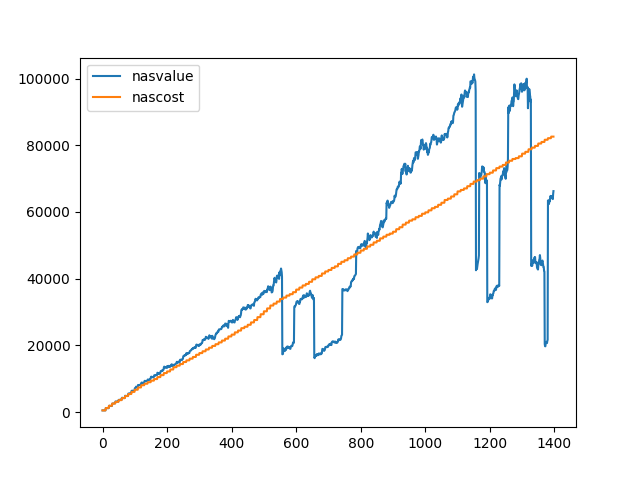
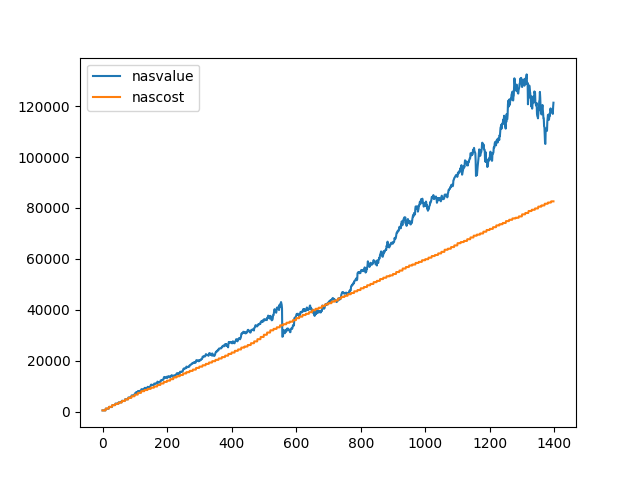
又做了一些修改，但是止盈与否好像收益差不多，是否实际上就是如此而不是程序有问题？

diff --git a/simulate.py b/simulate.py
@@ -17,9 +17,11 @@ import os
     data:股票历史数据，为一个数组。
     stopPoint: 止盈点
     startPoint: 止盈以后何时停止止盈
+    stopRate: 止盈比例
+    startRate: 停止止盈的比例
 """
 class simulate(object):
-    def __init__(self, money, totalTimes, freq, feerate, data, stopPoint, startPoint):
+    def __init__(self, money, totalTimes, freq, feerate, data, stopPoint, startPoint, stopRate, startRate):
         self.money = money
         self.tradeTimes = 0  # 已经交易次数
         self.totalTimes = totalTimes
@@ -28,6 +30,8 @@ class simulate(object):
         self.data = data
         self.stopPoint = stopPoint
         self.startPoint = startPoint
+        self.stopRate = stopRate
+        self.startRate = startRate
         # 股票交易数据
         # 每次交易剩下的钱
         self.money_rem = [0.0, 0.0]
@@ -66,40 +70,35 @@ class simulate(object):
         #清屏
         os.system("clear")
         
+    # 进行输出
+    def display(self, days):
+        print("交易日:%d 成本1:%.2f 持仓量1:%.2f 市值1:%.2f 收益率1:%.2f  成本2:%.2f 持仓量2:%.2f 市值2:%.2f 收益率2:%.2f " % (days, self.cost[0][days], self.stock[0][days], self.value[0][days], self.rate[0][days], self.cost[1][days], self.stock[1][days], self.value[1][days], self.rate[1][days]))
+        
         
     # 判断是否进行止盈操作，根据days前的交易情况，code为0或1
     def isStopProfit(self, code, days):
         # return False # 测试用
-        price = self.data[code]["close"][days]
-        # 没有正在进行止盈
-        if self.bStop[code] == False:
+        # 没有正在进行止盈和停止止盈
+        if self.bStop[code] == False and self.bStart[code] == False:
+            price = self.data[code]["close"][days]
             if self.minPrice[code] > price:
                 self.minPrice[code] = price
             if self.maxPrice[code] < price:
                 self.maxPrice[code] = price
             # 判断止盈条件
             if price/self.maxPrice[code] <= 1.0 - self.stopPoint:
-                self.bStop[code] = True
                 # 将最高/低价调整到现价
                 self.maxPrice[code] = price
                 self.minPrice[code] = price
-                return True
-        # 如果已经进行了止盈
-        if self.bStop[code] == True:
-            if self.minPrice[code] > price:
-                self.minPrice[code] = price
-            # 判断止盈条件
-            if price/self.maxPrice[code] <= 1.0 - self.stopPoint:
-                # 将最高/低价调整到现价
-                self.maxPrice[code] = price
-                self.minPrice[code] = price
+                if self.bStop[code] == False:
+                    self.bStop[code] = True
                 return True
         return False
                 
         
     # 进行止盈操作
     def doStopProfit(self, code, days):
-        money = self.value[code][days-1]/2.0
+        money = self.value[code][days-1] * self.stopRate
         num = self.getTradeNumber(money, self.data[code]["close"][days])
         value = num * self.data[code]["close"][days]
         fee = self.getFee(num, self.data[code]["close"][days])
@@ -132,6 +131,7 @@ class simulate(object):
         if self.bStop[code] == True or self.bStart[code] == True:
             price = self.data[code]["close"][days]
             if price/self.minPrice[code] >= 1.0 + self.startPoint:
+                print("停止止盈", code, days, price, price/self.minPrice[code])
                 self.bStart[code] = True
                 # 将最高/低价调整到现价
                 self.maxPrice[code] = price
@@ -145,7 +145,7 @@ class simulate(object):
     # 用止盈的钱重新购买etf
     def doReturnBuy(self, code, days):
         # 用止盈得到的剩余的钱的一半以现价再投资。
-        money = self.money_cut[code]/2.0
+        money = self.money_cut[code] * self.startRate
         num = self.getTradeNumber(money, self.data[code]["close"][days])
         value = num * self.data[code]["close"][days]
         fee = self.getFee(num, self.data[code]["close"][days])
@@ -201,7 +201,6 @@ class simulate(object):
             self.value[1][days] = self.stock[1][days] * self.data[1]["close"][days]
             self.fee[1][days] = fee1 + self.fee[1][days - 1]
             self.rate[1][days] = (self.value[1][days] + self.money_cut[1])/ self.cost[1][days] -1.0
-        # print(days, self.cost[0][days], self.stock[0][days], self.value[0][days], self.rate[0][days], self.rate[1][days])
             
         
     # 计算给定数量资金和股价可以买多少股票
@@ -260,6 +259,7 @@ class simulate(object):
             else:
                 for code in range(2):
                     self.update(code, days)
+            self.display(days)
             # print("位置a", days, self.value[0][days], self.cost[0][days], self.rate[0][days], self.value[1][days], self.cost[1][days], self.rate[1][days], self.totalrate[days])
             if days == 0:
                 self.minPrice[0] = self.data[0]["close"][0]
@@ -274,6 +274,7 @@ class simulate(object):
                         # print(code, days, self.cost[code][days-1], self.value[code][days-1], self.cost[code][days], self.value[code][days])
 
             for code in range(2):
+                # print(days, code, self.data[code]["close"][days], self.minPrice[code], self.maxPrice[code])
                 if self.isReturnBuy(code, days):
                     self.doReturnBuy(code, days)
                     # print(code, days, "停止止盈")
@@ -283,7 +284,8 @@ class simulate(object):
             # for code in range(2):
             #     self.cutUpdate(code, days)
             self.combine(days)
-            # print("位置b", days, self.value[0][days], self.cost[0][days], self.rate[0][days], self.value[1][days], self.cost[1][days], self.rate[1][days], self.totalrate[days])
+            # print("位置b", days, self.value[0][days], self.cost[0][days], self.rate[0][days], self.value[1][days], self.cost[1][days], self.rate[1][days], self.totalrate[days], self.money_cut[0], self.money_cut[1])
+            # print(days, self.money_cut[0], self.money_cut[1])
             self.tradeTimes += 1
             # print(days, self.totalcost[days], self.totalvalue[days], self.totalrate[days])
         self.getIndex()
@@ -334,6 +336,6 @@ if __name__ == "__main__":
     df_nas = df_nas.loc[0:length2, ["date", "close"]]
     data = [df_300, df_nas]
     # print(data[0].head())
-    test = simulate(1000, len(df_300), 10, 0.0003, data, 0.1, 0.1)
+    test = simulate(1000, len(df_300), 10, 0.0003, data, 0.1, 0.1, 0.2, 0.2)
     test.run()
     
